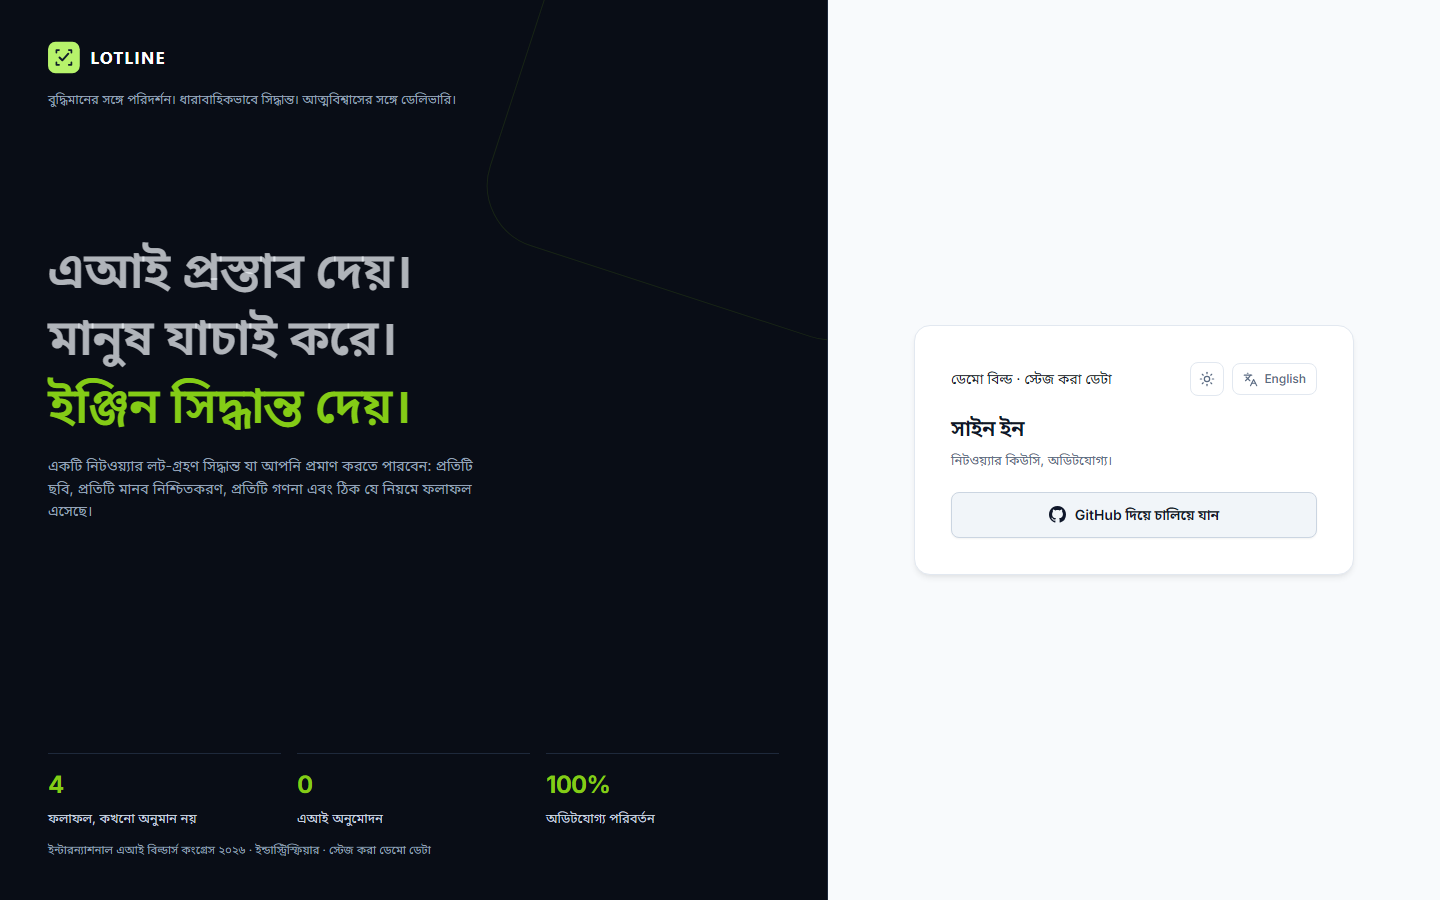
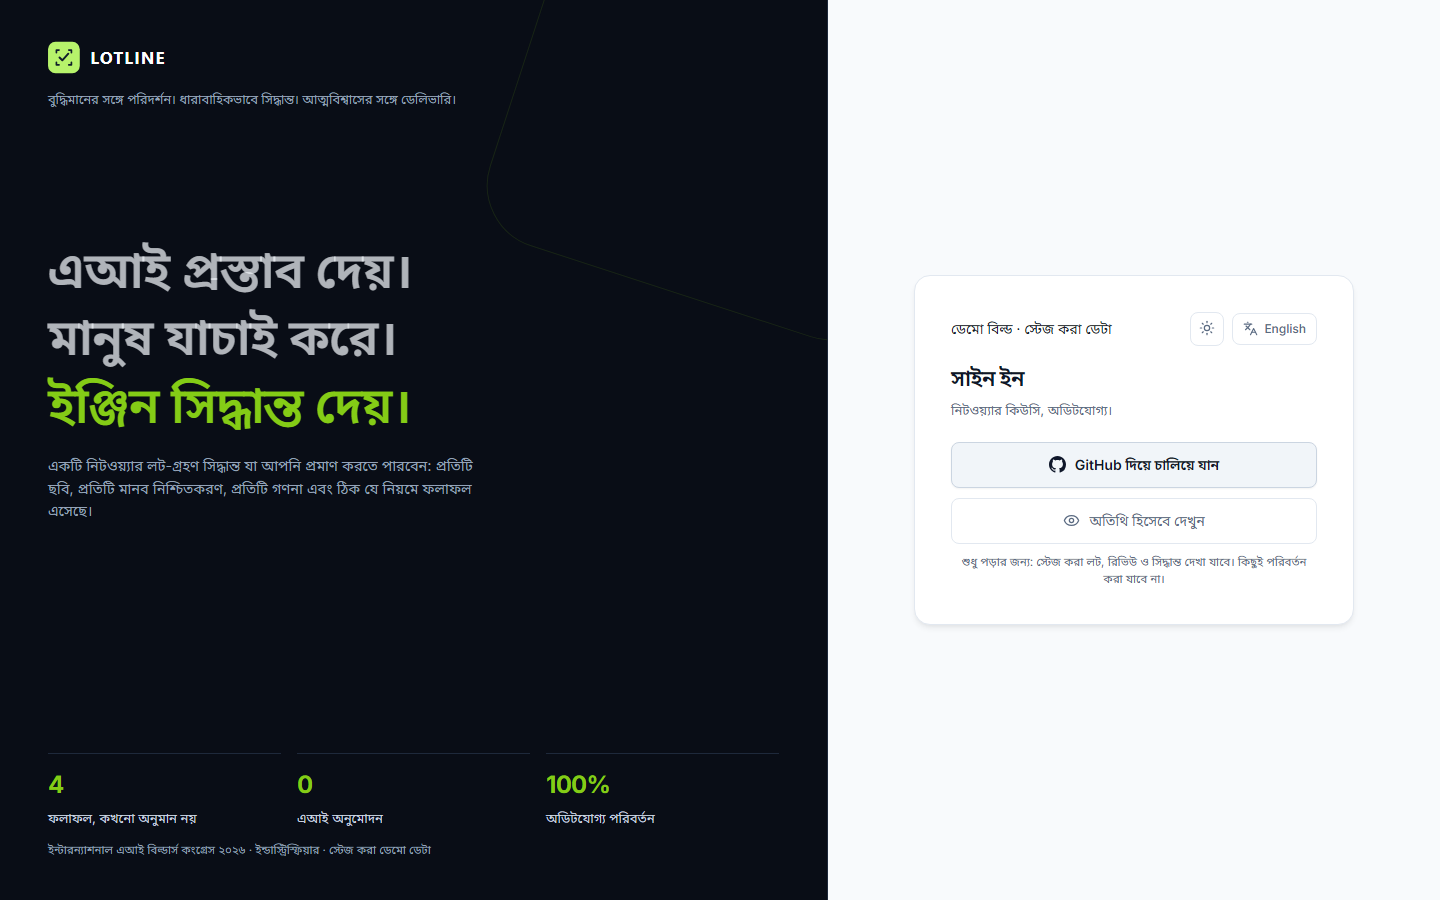
Add a read-only guest sign-in for visitors who should not type a password

diff --git a/frontend/src/pages/LoginPage.tsx b/frontend/src/pages/LoginPage.tsx
@@ -1,13 +1,15 @@
 import { useState } from "react";
-import { Navigate, useLocation } from "react-router-dom";
+import { Navigate, useLocation, useNavigate } from "react-router-dom";
 import { useSession } from "../lib/session";
 import { Icon } from "../components/ui";
 import { ThemeToggle } from "../components/ThemeToggle";
 
 export function LoginPage() {
-  const { authenticated, lang, t, data, setLang } = useSession();
+  const { authenticated, lang, t, data, setLang, demoLogin } = useSession();
   const location = useLocation();
-  const [error] = useState<"failed" | "rl" | "oauth" | "">(() => {
+  const navigate = useNavigate();
+  const [busy, setBusy] = useState(false);
+  const [error, setError] = useState<"failed" | "rl" | "oauth" | "">(() => {
     const value = new URLSearchParams(location.search).get("err");
     return value === "oauth" || value === "rl" ? value : "";
   });
@@ -15,6 +17,20 @@ export function LoginPage() {
   if (authenticated) {
     return <Navigate to="/" replace />;
   }
+
+  const guest = async () => {
+    setBusy(true);
+    setError("");
+    try {
+      await demoLogin("guest");
+      const from = (location.state as { from?: string } | null)?.from;
+      navigate(from && from !== "/login" ? from : "/", { replace: true });
+    } catch {
+      setError("failed");
+    } finally {
+      setBusy(false);
+    }
+  };
 
   return (
     <div className="login">
@@ -92,6 +108,16 @@ export function LoginPage() {
                 : "এই ইনস্ট্যান্সে গিটহাব সাইন-ইন চালু নেই। চালু করতে GITHUB_CLIENT_ID ও GITHUB_CLIENT_SECRET সেট করুন।"}
             </div>
           )}
+
+          {data.demo_login ? (
+            <>
+              <button className="signin signin-guest" type="button" onClick={guest} disabled={busy}>
+                <Icon name="eye" size={17} />
+                {t("login.guest")}
+              </button>
+              <p className="signin-hint">{t("login.guest_hint")}</p>
+            </>
+          ) : null}
         </div>
       </section>
     </div>

diff --git a/frontend/src/lib/session.tsx b/frontend/src/lib/session.tsx
@@ -19,7 +19,7 @@ interface SessionValue {
   reason: (code: string) => { title: string; text: string; next: string };
   setLang: (lang: Lang) => Promise<void>;
   login: (email: string, password: string) => Promise<void>;
-  demoLogin: (role: "inspector" | "supervisor" | "admin") => Promise<void>;
+  demoLogin: (role: "inspector" | "supervisor" | "admin" | "guest") => Promise<void>;
   logout: () => Promise<void>;
   refresh: () => Promise<unknown>;
 }
@@ -36,6 +36,7 @@ const FALLBACK: Bootstrap = {
   zones: ["I", "II", "III"],
   human_classes: [],
   demo_login: false,
+  is_guest: false,
   github_oauth: false,
   catalogs: { buyers: [], products: [] },
   model: { model: "", detector: "", model_ok: false, card: {} },
@@ -118,7 +119,7 @@ export function SessionProvider({ children }: { children: ReactNode }) {
   );
 
   const demoLogin = useCallback(
-    async (role: "inspector" | "supervisor" | "admin") => {
+    async (role: "inspector" | "supervisor" | "admin" | "guest") => {
       const next = await api.post<Bootstrap>(`/api/auth/demo/${role}`);
       adopt(next);
       await queryClient.invalidateQueries();

diff --git a/frontend/src/pages/LotsPage.tsx b/frontend/src/pages/LotsPage.tsx
@@ -16,7 +16,7 @@ interface LotsData {
 }
 
 export function LotsPage() {
-  const { t, lang, user } = useSession();
+  const { t, lang, user, data: session } = useSession();
   const [params, setParams] = useSearchParams();
   const [q, setQ] = useState(params.get("q") || "");
   const [state, setState] = useState(params.get("state") || "");
@@ -82,7 +82,7 @@ export function LotsPage() {
               {params.toString() ? <Link className="btn sm ghost" to="/lots">{lang === "en" ? "Reset" : "রিসেট"}</Link> : null}
             </div>
 
-            {user && user.role !== "admin" ? (
+            {user && user.role !== "admin" && !session.is_guest ? (
               <div className="right" style={{ marginLeft: "auto" }}>
                 <Link className="btn sm primary" to="/lots/new">
                   <Icon name="plus" size={14} />

diff --git a/templates/login.html b/templates/login.html
@@ -70,6 +70,14 @@
         {{ 'GitHub sign-in is not enabled on this instance. Set GITHUB_CLIENT_ID and GITHUB_CLIENT_SECRET to turn it on.' if lang=='en' else 'এই ইনস্ট্যান্সে গিটহাব সাইন-ইন চালু নেই। চালু করতে GITHUB_CLIENT_ID ও GITHUB_CLIENT_SECRET সেট করুন।' }}
       </div>
       {% endif %}
+
+      {% if guest_login %}
+      <a class="signin signin-guest" href="/guest">
+        {{ icons.icon('eye', 17) }}
+        {{ tr('login.guest') }}
+      </a>
+      <p class="signin-hint">{{ tr('login.guest_hint') }}</p>
+      {% endif %}
     </div>
   </section>
 </div>

diff --git a/static/css/shell.css b/static/css/shell.css
@@ -162,6 +162,11 @@
 .rail-user .who { min-width: 0; flex: 1; }
 .rail-user .who b { display: block; font-size: 13px; color: #f8fafc; overflow: hidden; text-overflow: ellipsis; white-space: nowrap; }
 .rail-user .who span { font-size: 11px; color: #94a3b8; text-transform: capitalize; }
+.rail-user .who span.guest-tag {
+  font-size: 10.5px; font-weight: 600; letter-spacing: 0.03em;
+  text-transform: none; color: var(--lime);
+}
+
 .rail-user form { margin: 0; }
 .rail-user .btn.ghost { color: #94a3b8; border-color: #1e293b; padding: 6px 8px; }
 .rail-user .btn.ghost:hover { color: #fff; background: rgba(255, 255, 255, 0.08); border-color: #334155; }

diff --git a/frontend/src/pages/DashboardPage.tsx b/frontend/src/pages/DashboardPage.tsx
@@ -193,7 +193,7 @@ export function DashboardPage() {
                     <div className="workspace-subtitle">{t("dash.active_lots_subtitle")}</div>
                   </div>
                   <div className="btnrow btnrow-gap">
-                    {user && user.role !== "admin" ? (
+                    {user && user.role !== "admin" && !session.is_guest ? (
                       <Button href="/lots/new" variant="primary" size="sm" icon="plus">{t("nav.new_lot")}</Button>
                     ) : null}
                     <Button href="/lots" variant="ghost" size="sm" iconAfter="arrow-right">{t("nav.lots")}</Button>

diff --git a/static/css/login.css b/static/css/login.css
@@ -159,6 +159,23 @@
   box-shadow: var(--focus);
 }
 .login .signin svg { flex: 0 0 auto; }
+.login .signin-guest {
+  margin-top: 10px;
+  border-color: var(--line);
+  background: var(--surface);
+  color: var(--muted);
+  font-weight: 500;
+  box-shadow: none;
+}
+.login .signin-guest:hover { color: var(--text); background: var(--surface-subtle); }
+.login .signin-hint {
+  margin: 10px 4px 0;
+  font-size: 11.5px;
+  line-height: 1.5;
+  color: var(--muted);
+  text-align: center;
+}
+
 
 .login .auth-note {
   margin: 0;

diff --git a/frontend/src/components/AppShell.tsx b/frontend/src/components/AppShell.tsx
@@ -136,7 +136,7 @@ export function AppShell({
           <span className="avatar" aria-hidden="true">{user.display_name.slice(0, 1)}</span>
           <div className="who">
             <b>{user.display_name}</b>
-            <span>{t(`common.${user.role}`)}</span>
+            {data.is_guest ? <span className="guest-tag">{t("guest.label")}</span> : <span>{t(`common.${user.role}`)}</span>}
           </div>
         </div>
       </aside>

diff --git a/templates/base.html b/templates/base.html
@@ -85,7 +85,11 @@
       <span class="avatar" aria-hidden="true">{{ user.display_name[:1] }}</span>
       <div class="who">
         <b>{{ user.display_name }}</b>
+        {% if is_guest %}
+        <span class="guest-tag">{{ tr('guest.label') }}</span>
+        {% else %}
         <span>{{ tr('common.' ~ user.role) }}</span>
+        {% endif %}
       </div>
     </div>
   </aside>

diff --git a/templates/components/_dash_left.html b/templates/components/_dash_left.html
@@ -12,7 +12,7 @@
           </div>
         </div>
         <div class="btnrow btnrow-gap">
-          {% if user.role in ('inspector', 'supervisor') %}
+          {% if user.role in ('inspector', 'supervisor') and not is_guest %}
           <a class="btn sm primary" href="/lots/new">
             {{ icons.icon('plus', 14) }}
             <span>{{ tr('nav.new_lot') }}</span>

diff --git a/templates/lots.html b/templates/lots.html
@@ -52,7 +52,7 @@
       </div>
 
       {# New Lot Action (Inspector & Supervisor Only) #}
-      {% if user.role in ('inspector','supervisor') %}
+      {% if user.role in ('inspector','supervisor') and not is_guest %}
       <div class="right" style="margin-left:auto">
         <a class="btn sm primary" href="/lots/new">
           {{ icons.icon('plus', 14) }}

diff --git a/frontend/src/lib/api.ts b/frontend/src/lib/api.ts
@@ -20,6 +20,7 @@ export interface Bootstrap {
   zones: string[];
   human_classes: string[];
   demo_login: boolean;
+  is_guest: boolean;
   github_oauth: boolean;
   catalogs: {
     buyers: Array<{ id: number; name: string; country: string }>;
